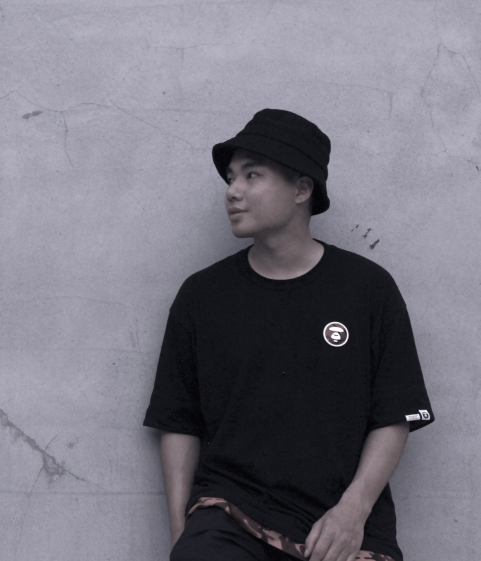
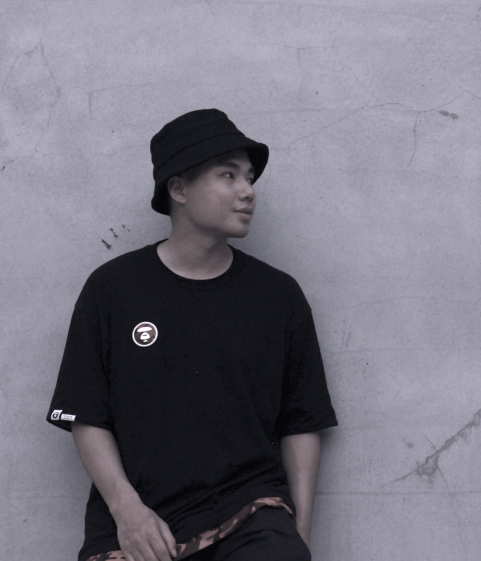
Sketching ... 1. Main About (About me)

diff --git a/src/components/MainAbout.module.css b/src/components/MainAbout.module.css
@@ -1,13 +1,111 @@
 .container {
     width: 100vw;
     height: 100vh;
+    margin-bottom: 140px;
     display: inline-flex;
     justify-content: center;
-    margin-bottom: 140px;
 }
 
 .background {
     width: 80%;
     height: 96%;
+    min-width: 950px;
     background-color: #F5F2ED;
+    display: inline-flex;
+    justify-content: center;
+
+}
+
+.abt-container {
+    width: 930px;
+    height: 800px;
+    align-self: center;
+    display: grid;
+    grid-template-columns: 300px 70px 55px 500px;
+    grid-template-rows: 40px 200px 350px 210px;
+}
+
+.abt-selfie {
+    width: 480px;
+    height: 560px;
+    grid-column-start: 1;
+    grid-row-start: 3;
+    background-color: grey;
+}
+
+.abt-selfie img {
+    width: 480px;
+    height: 560px;
+}
+
+.abt-title {
+    width: fit-content;
+    height: fit-content;
+    padding: 20px 30px 20px 30px;
+    border: 1.5px solid #000000;
+    margin-top: 10px;
+    grid-column-start: 2;
+    grid-row-start: 2;
+}
+
+.abt-title h3 {
+    margin: 0;
+    padding: 0;
+    width: 250px;
+    color: #000000;
+    font-family: 'Abhaya Libre', serif;
+    font-size: 36px;
+}
+
+.abt-info {
+    width: 500px;
+    height: 530px;
+    background-color: #FFFFFF;
+    text-align: justify;
+    grid-column-start: 4;
+    grid-row-start: 1;
+    display: flex;
+    justify-content: center;
+}
+
+.abt-info p {
+    width: 80%;
+    color: #000000;
+    font-family: 'Noto Sans JP', sans-serif;
+    font-size: 16px;
+    margin-top: 70px;
+    align-self: center;
+}
+
+.abt-but {
+    width: 210px;
+    height: 50px;
+    grid-column-start: 3;
+    grid-row-start: 4;
+}
+
+.abt-but button {
+    width: 100%;
+    height: 100%;
+    background-color: #323232;
+    border: none;
+    color: #FFFFFF;
+    font-family: 'Abhaya Libre', serif;
+    font-size: 28px;
+}
+
+.abt-line {
+    display: flex;
+    grid-column-start: 3;
+    grid-row-start: 3;
+    margin-top: -55px;
+}
+
+.abt-line span {
+    content: '';
+    width: 3px;
+    height: 400px;
+
+    background-color: #000000;
+    z-index: 2;
 }

diff --git a/src/components/MainAbout.js b/src/components/MainAbout.js
@@ -1,11 +1,32 @@
 import React from 'react';
 
 import classes from './MainAbout.module.css';
+import selfImage from '../assets/img/main_selfie.png'
 
 const MainAbout = (props) => {
     return (
         <div className={classes.container}>
-            <div className={classes.background}></div>
+            <div className={classes.background}>
+                <div className={classes['abt-container']}>
+                    <div className={classes['abt-line']}>
+                        <span></span>
+                    </div>
+                    <div className={classes['abt-selfie']}>
+                        <img src={selfImage} alt="Selfie" />
+                    </div>
+                    <div className={classes['abt-info']}>
+                        <p>I’m studying HCI at Rochester Institute of Technology. I enjoy develop various interest in my
+                            free time.</p>
+                    </div>
+                    <div className={classes['abt-title']}>
+                        <h3>Hi, I’m Jeni</h3>
+                        <h3>a web developer</h3>
+                    </div>
+                    <div className={classes['abt-but']}>
+                        <button>About me</button>
+                    </div>
+                </div>
+            </div>
         </div>
     )
 };
